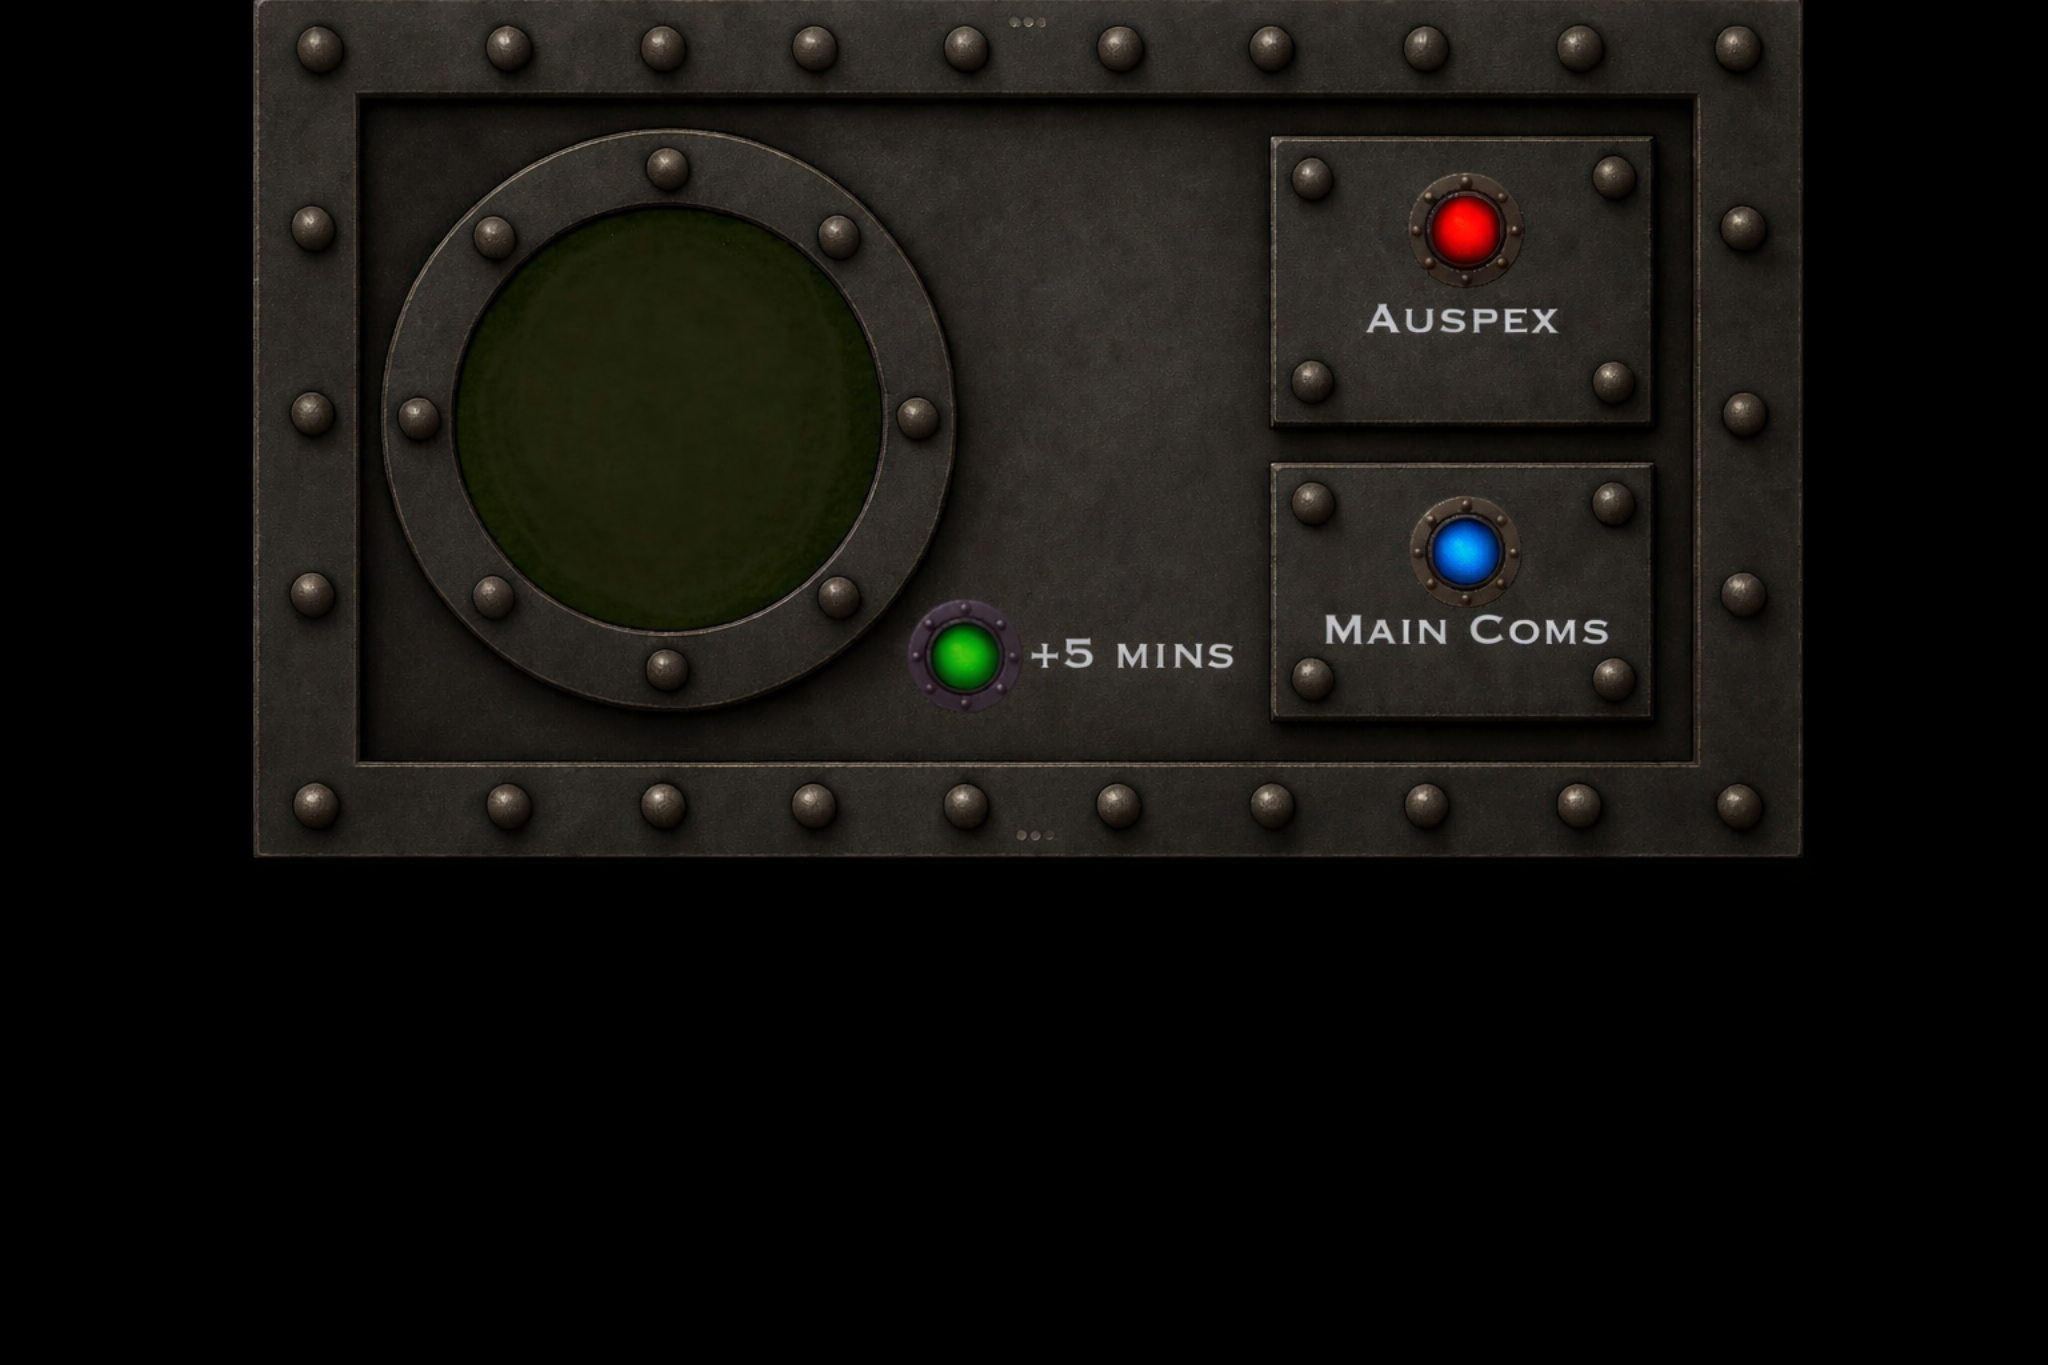
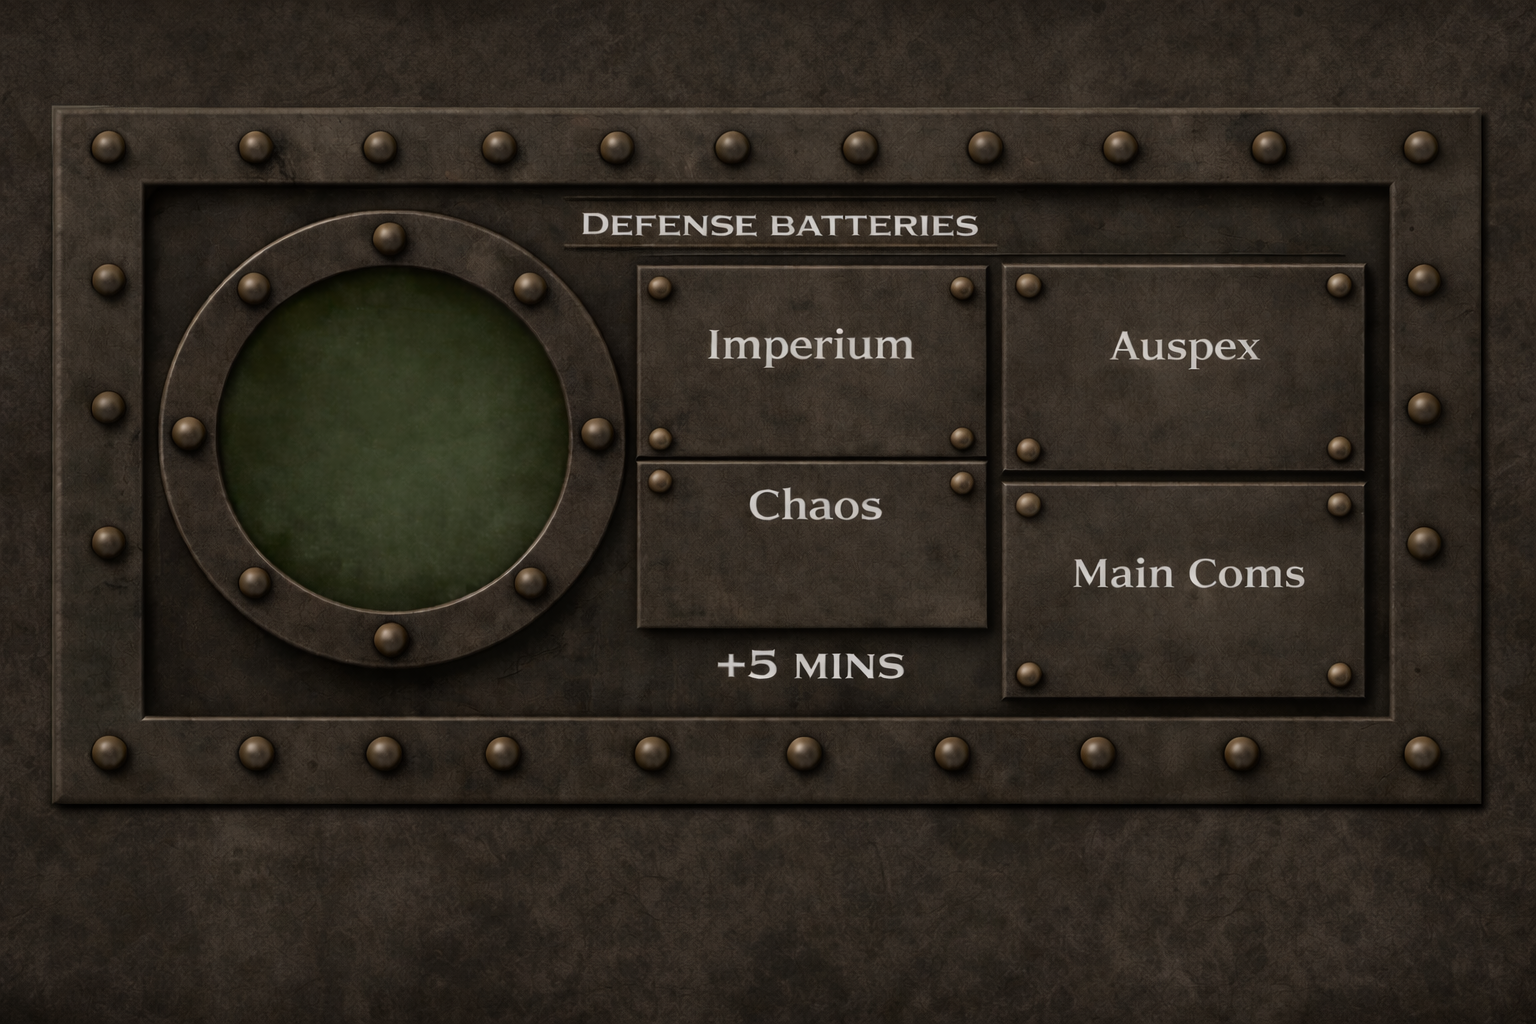
finishing touches

diff --git a/style.css b/style.css
@@ -13,8 +13,8 @@ body {
 
 #time {
   position: absolute;
-  top: 28%;
-  left: 33%;
+  top: 41%;
+  left: 26%;
   transform: translate(-50%, -50%);
   font-size: 100px;
   font-family: monospace;
@@ -32,18 +32,18 @@ body {
 }
 
 #button1, #button1Clicked {
-  top: 39%;
-  left: 39.5%;
+  top: 60%;
+  left: 36%;
 }
 
 #button2, #button2Toggled {
-  top: 29.5%;
-  left: 64%;
+  top: 56%;
+  left: 70%;
 }
 
 #button3, #button3Toggled {
-  top: 1%;
-  left: 64%;
+  top: 30%;
+  left: 70%;
 }
 
 .hidden {
@@ -66,27 +66,26 @@ body {
   position: absolute;
   width: 90px;
   padding: 6px;
-  background: rgba(0,0,0,0.6);
+  /*background: rgba(0,0,0,0.6);*/
   border-radius: 6px;
   color: white;
   font-family: monospace;
   text-align: center;
 }
 
-#counterA { top: 35%; left: 25%; }
-#counterB { top: 48%; left: 25%; }
+#counterA { top: 32%; left: 50%; }
+#counterB { top: 51%; left: 50%; }
 
 .counter-value {
-  font-size: 22px;
+  font-size: 50px;
   margin-bottom: 6px;
 }
 
 .defense-panel {
   position: absolute;
-  top:3%;
+  top:31%;
   left: 48%;
   padding: 10px 12px 12px;
-  background: rgba(0, 0, 0, 0.65);
   border-radius: 8px;
   color: white;
   font-family: monospace;

diff --git a/index.html b/index.html
@@ -23,23 +23,17 @@
     <img id="button3Toggled" src="blue.png" class="btn hidden">
 
     <!-- Defense Batteries Panel -->
-    <div id="defenseBatteries" class="defense-panel">
-      <div class="defense-title">Defense Batteries</div>
-
       <div class="counter-panel" id="counterA">
-        <div class="defense-title">Imperium</div>
         <div class="counter-value" id="counterAValue">0</div>
         <button id="counterAPlus">+</button>
         <button id="counterAMinus">−</button>
       </div>
 
       <div class="counter-panel" id="counterB">
-        <div class="defense-title">Chaos</div>
         <div class="counter-value" id="counterBValue">0</div>
         <button id="counterBPlus">+</button>
         <button id="counterBMinus">−</button>
       </div>
-    </div>
   </div>
   <script src="script.js"></script>
 </body>

diff --git a/script.js b/script.js
@@ -102,7 +102,7 @@ timeEl.addEventListener("click", () => {
   if (now - lastTap < 350) {
     if (confirm("Reset timer to 20:00?")) {
       stop();
-      seconds = 20 * 60;
+      seconds = 20 ;
       timeEl.classList.remove("finished");
 
       button1.classList.remove("hidden");
@@ -112,11 +112,7 @@ timeEl.addEventListener("click", () => {
       update();
     }
   } else {
-    if(running) {
-      stop();
-    } else {
       start();
-    }
   }
   lastTap = now;
 });
@@ -125,6 +121,7 @@ timeEl.addEventListener("click", () => {
 
 function button1Handler() {
   seconds += 5 * 60;
+  endTimestamp = Date.now() + seconds * 1000;
   update();
   button1.classList.add("hidden");
   button1Clicked.classList.remove("hidden");
